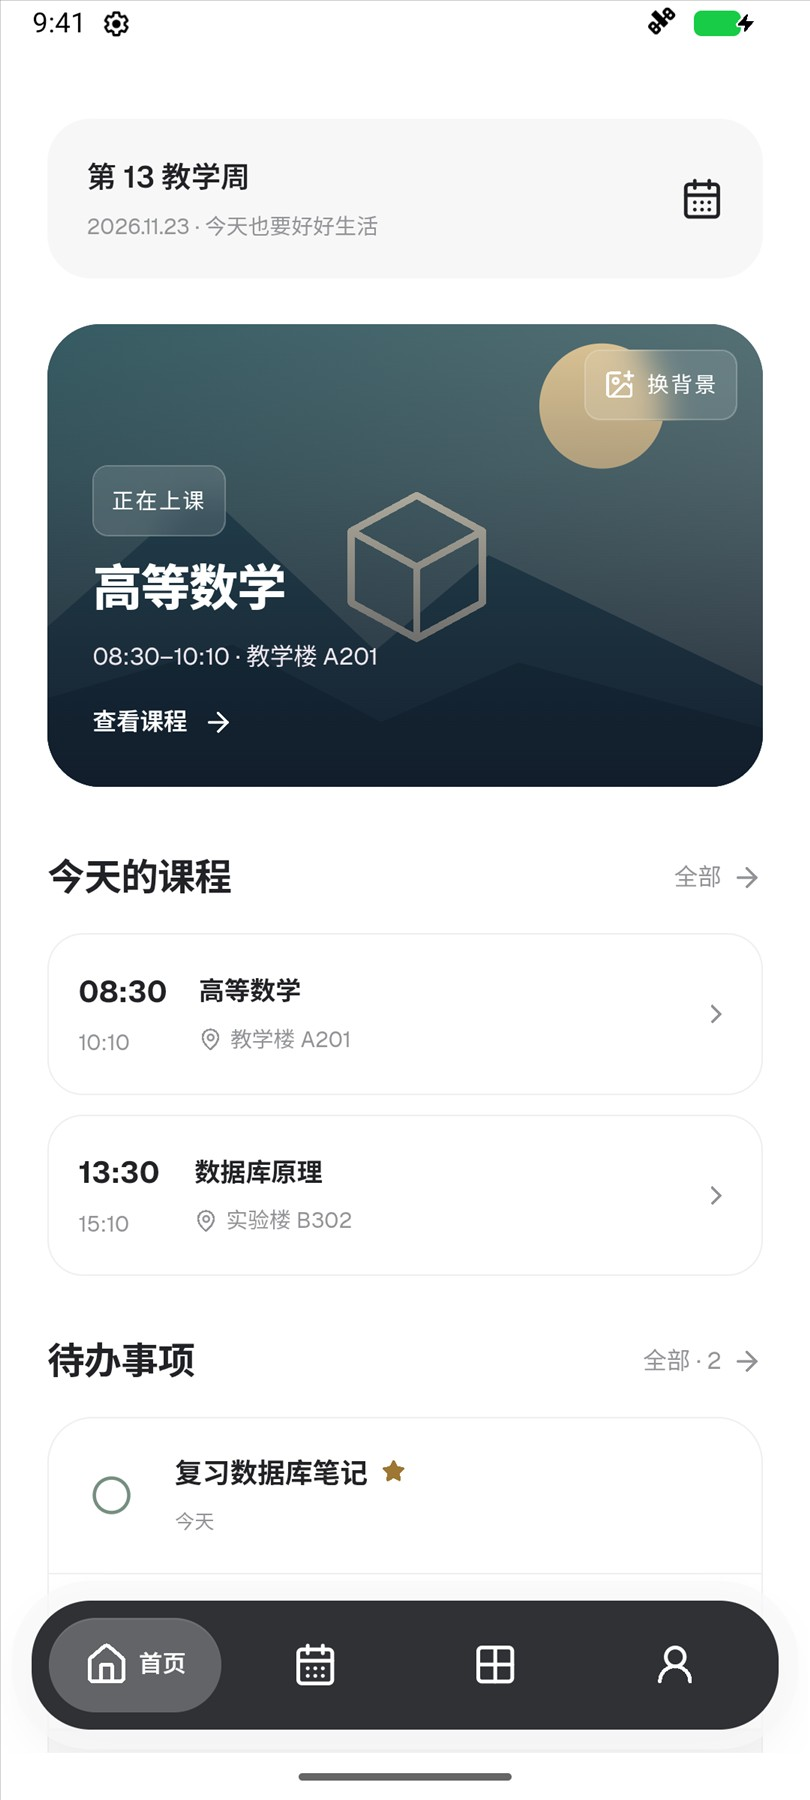
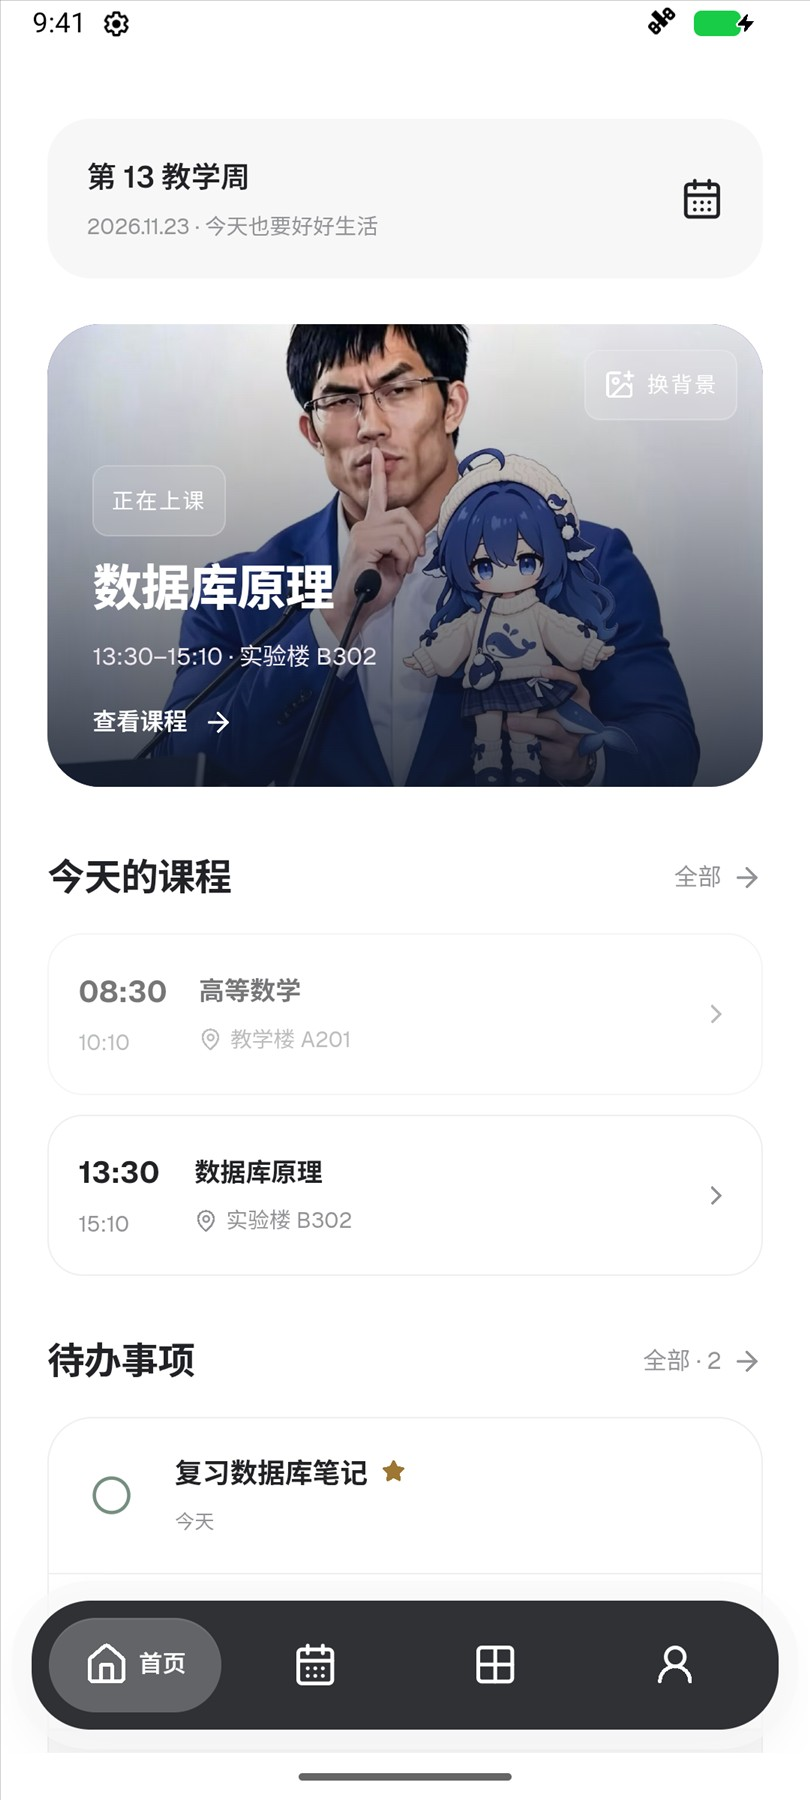
Refresh site and README for restored 0.1.3 artwork

Changed region(s): [[0.0309, 0.1556, 0.9568, 0.4356], [0.2469, 0.5289, 0.3704, 0.5911], [0.0926, 0.5289, 0.216, 0.56]]

diff --git a/site/index.html b/site/index.html
@@ -13,7 +13,7 @@
   <meta property="og:url" content="https://henubox.ccwu.cc/">
   <meta property="og:image" content="https://henubox.ccwu.cc/assets/home.jpg">
   <link rel="canonical" href="https://henubox.ccwu.cc/">
-  <link rel="icon" href="assets/favicon.svg" type="image/svg+xml">
+  <link rel="icon" href="assets/app-icon.png" type="image/png">
   <link rel="stylesheet" href="styles.css">
   <script src="app.js" defer></script>
 </head>
@@ -21,7 +21,7 @@
   <a class="skip-link" href="#main">跳到主要内容</a>
   <header class="site-header" id="top">
     <div class="shell header-row">
-      <a class="brand" href="#top" aria-label="HENUBox 首页"><img src="assets/favicon.svg" width="35" height="35" alt=""><span>HENUBox</span></a>
+      <a class="brand" href="#top" aria-label="HENUBox 首页"><img src="assets/app-icon.png" width="35" height="35" alt=""><span>HENUBox</span></a>
       <nav class="site-nav" aria-label="页面导航"><a href="#features">功能</a><a href="#screens">界面</a><a href="#install">安装</a><a href="#contribute">贡献</a></nav>
       <div class="header-actions">
         <button id="theme-toggle" class="icon-button theme-toggle" type="button" aria-label="切换到深色模式" hidden>
@@ -39,7 +39,7 @@
         <h1 id="hero-title">河小盒<span>河南大学校园工具</span></h1>
         <p class="hero-lead">把课表保存在手机，断网也能看。查空闲教室、预约图书馆，再用待办和专注安排好一天。</p>
         <div class="hero-actions">
-          <a class="button button-mint" href="https://github.com/moonquake25104/HENUBox/releases/download/v0.1.3/HENUBox-0.1.3.apk"><svg viewBox="0 0 24 24" aria-hidden="true"><path d="M12 3v12m-4-4 4 4 4-4M5 16v4h14v-4"/></svg> 下载 Android APK</a>
+          <a class="button button-mint" href="https://github.com/moonquake25104/HENUBox/releases/download/v0.1.3/HENUBox-0.1.3-artwork.apk"><svg viewBox="0 0 24 24" aria-hidden="true"><path d="M12 3v12m-4-4 4 4 4-4M5 16v4h14v-4"/></svg> 下载 Android APK</a>
           <a class="button button-outline" href="https://github.com/moonquake25104/HENUBox">GitHub <span aria-hidden="true">↗</span></a>
         </div>
         <p class="hero-details">v0.1.3 <span>·</span> Android 9+ <span>·</span> 免费无广告</p>
@@ -115,14 +115,14 @@
     </section>
 
     <section class="download section" id="download" aria-labelledby="download-title">
-      <div><h2 id="download-title">下载河小盒</h2><p>Android 9 及以上 · ARM64 · 8.9 MiB</p></div>
+      <div><h2 id="download-title">下载河小盒</h2><p>Android 9 及以上 · ARM64 · 9.6 MiB</p></div>
       <div class="download-options">
-        <a class="button button-mint" id="apk-download" href="https://github.com/moonquake25104/HENUBox/releases/download/v0.1.3/HENUBox-0.1.3.apk"><svg viewBox="0 0 24 24" aria-hidden="true"><path d="M12 3v12m-4-4 4 4 4-4M5 16v4h14v-4"/></svg> 下载 APK · v0.1.3</a>
+        <a class="button button-mint" id="apk-download" href="https://github.com/moonquake25104/HENUBox/releases/download/v0.1.3/HENUBox-0.1.3-artwork.apk"><svg viewBox="0 0 24 24" aria-hidden="true"><path d="M12 3v12m-4-4 4 4 4-4M5 16v4h14v-4"/></svg> 下载 APK · v0.1.3</a>
         <a class="release-link" href="https://github.com/moonquake25104/HENUBox/releases">查看所有版本 <span aria-hidden="true">↗</span></a>
       </div>
       <details class="checksum">
         <summary>核对 APK 的 SHA-256</summary>
-        <code>d842f87d1018abd8edc4d14eebc07d9561fe4ae9a906f8f3434a762d94577f84</code>
+        <code>e435a1e44dba1ce25d909831ef02f4fc13ee4fdeeb2f6aa622c766784481d9b0</code>
       </details>
     </section>
 
@@ -155,7 +155,7 @@
   <footer class="site-footer">
     <div class="shell">
       <div class="footer-row">
-        <a class="brand" href="#top"><img src="assets/favicon.svg" width="35" height="35" alt=""><span>HENUBox</span></a>
+        <a class="brand" href="#top"><img src="assets/app-icon.png" width="35" height="35" alt=""><span>HENUBox</span></a>
         <nav aria-label="开源项目相关链接">
           <a href="https://github.com/moonquake25104/HENUBox">GitHub</a>
           <a href="https://github.com/moonquake25104/HENUBox/issues">反馈问题</a>

diff --git a/README.md b/README.md
@@ -2,7 +2,7 @@
 
 面向河南大学学生的 Android 校园工具。保存课表后可以离线查看，也能从应用里查空闲教室、打开图书馆预约，或安排自己的待办和专注时间。应用免费、无广告，由个人维护。
 
-[下载 APK](https://github.com/moonquake25104/HENUBox/releases/latest) · [更新记录](docs/releases/v0.1.3.md) · [反馈问题](https://github.com/moonquake25104/HENUBox/issues)
+[下载 APK](https://github.com/moonquake25104/HENUBox/releases/download/v0.1.3/HENUBox-0.1.3-artwork.apk) · [更新记录](docs/releases/v0.1.3.md) · [反馈问题](https://github.com/moonquake25104/HENUBox/issues)
 
 ## 能做什么
 

diff --git a/docs/releases/v0.1.3.md b/docs/releases/v0.1.3.md
@@ -2,6 +2,13 @@
 
 > 把课表、校园服务和日常小事，装进一个盒子里。
 
+## 素材修正
+
+恢复原版 App 图标和默认首页卡片。修正版沿用原签名，支持覆盖安装。
+[下载修正版 APK](https://github.com/moonquake25104/HENUBox/releases/download/v0.1.3/HENUBox-0.1.3-artwork.apk)
+
[1 lines of base64/hex data omitted]
+
 ## 新增
 
 - **桌面小组件**：专注 2×2、今明课表 4×2、五天课表 4×4、七天课表 4×4；两种周课表可以同时添加，按北京时间显示本周，读取本地课表。三档背景不透明度，默认微透。
